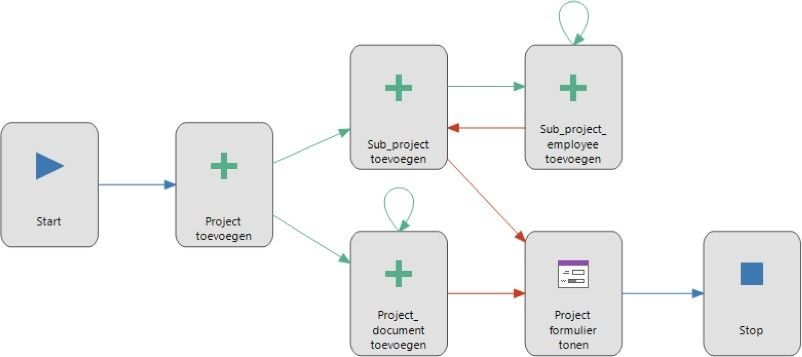
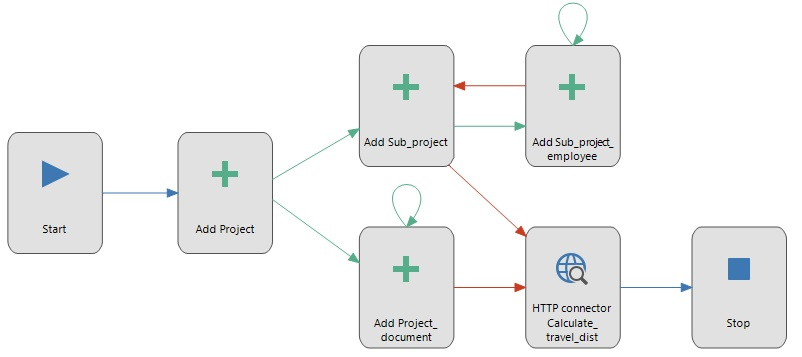
2020.1 overview doc (#143)
* Replaced kanban screenshot

* Replaced process flow screenshot (language, connector)

* Added info about scheduling, OpenID

diff --git a/docs/platform_overview.md b/docs/platform_overview.md
@@ -216,6 +216,8 @@ End users are automatically guided through the application with the help of proc
 ![](assets/overview/process_flow.jpg)
 *Example of a process flow*
 
+Scheduling of process flows allows applications to autonomically operate on the background without requiring any user interaction.
+
 #### Help
 
 Help text can also be defined in the Software Factory, for each process as well as for each object. The help text can be set up fully multilingual. The user interfaces are context sensitive and immediately display the relevant part of the help text.
@@ -323,13 +325,20 @@ The Intelligent Application Manager has the following components:
 To include a new or existing project version as an application in the IAM, it is necessary to synchronize it with the SF. This means that the blueprint is copied from the SF to the IAM. As soon as this has taken place, the authorization for this application can be set up via the IAM.
 <a href="sf/synchronization" target="_blank">![](assets/overview/link.svg)</a>
 
+### Authentication
+
+Users of the Thinkwise platform can be authenticated using the Active Directory, the RDBMS or using an account provided by IAM.
+
+Two-factor authentication using e-mail, SMS or TOTP can be leveraged as an extra layer of protection.
+
+The Thinkwise Platform can be used as OpenID provider. This will allow users of third-party web applications to login using the same credentials they use to access Thinkwise applications.
+
 ### Authorization
 
 Authorization is linked to roles and user groups using Role Based Access Control. A user group contains several users, but a user may also be a member of several user groups. If required, a membership is time-related so that access rights automatically expire after a period of time (for example with temporary contracts).
 
 Authorization can be defined down to field level and on cross-sections of data.
 
-The users can be authenticated via Active Directory, the RDBMS, IAM authentication or Open ID.
 <a href="sf/roles" target="_blank">![](assets/overview/link.svg)</a>
 
 ### User preferences
